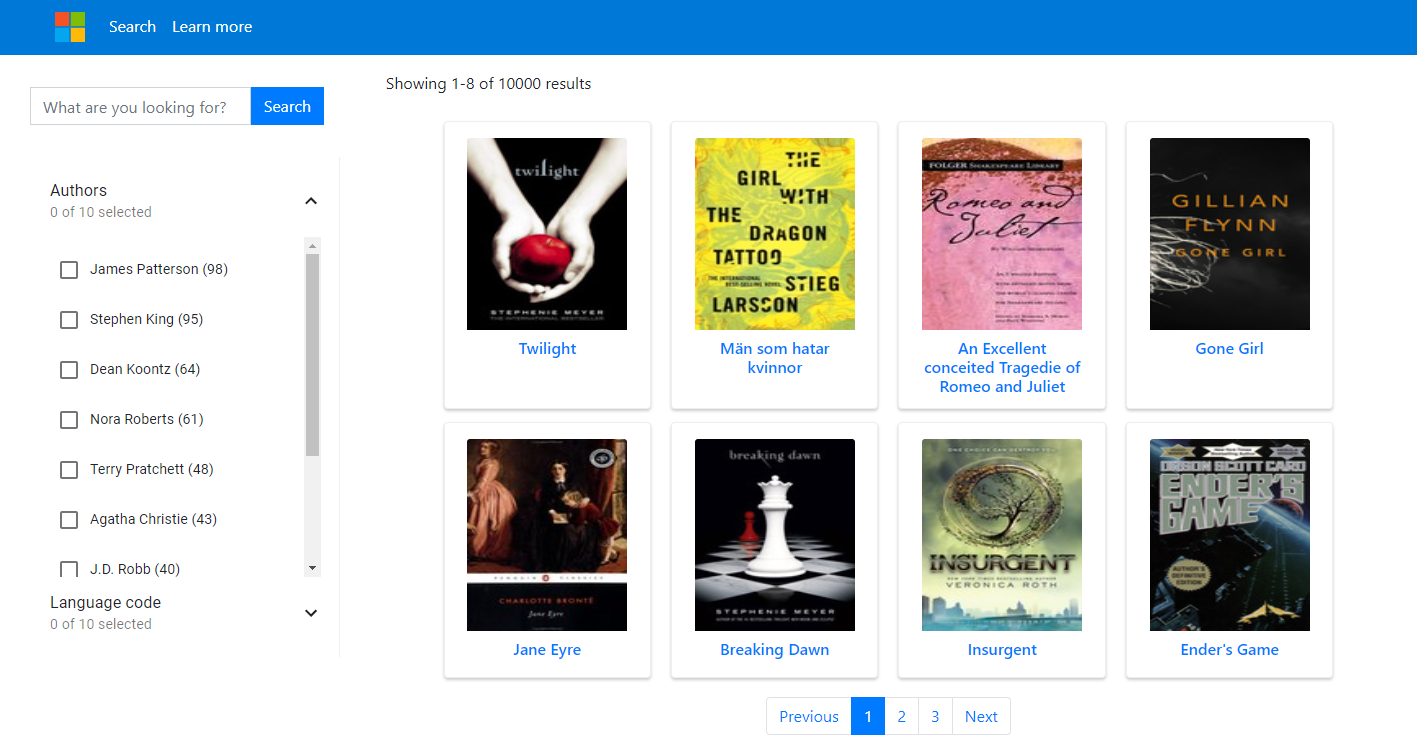
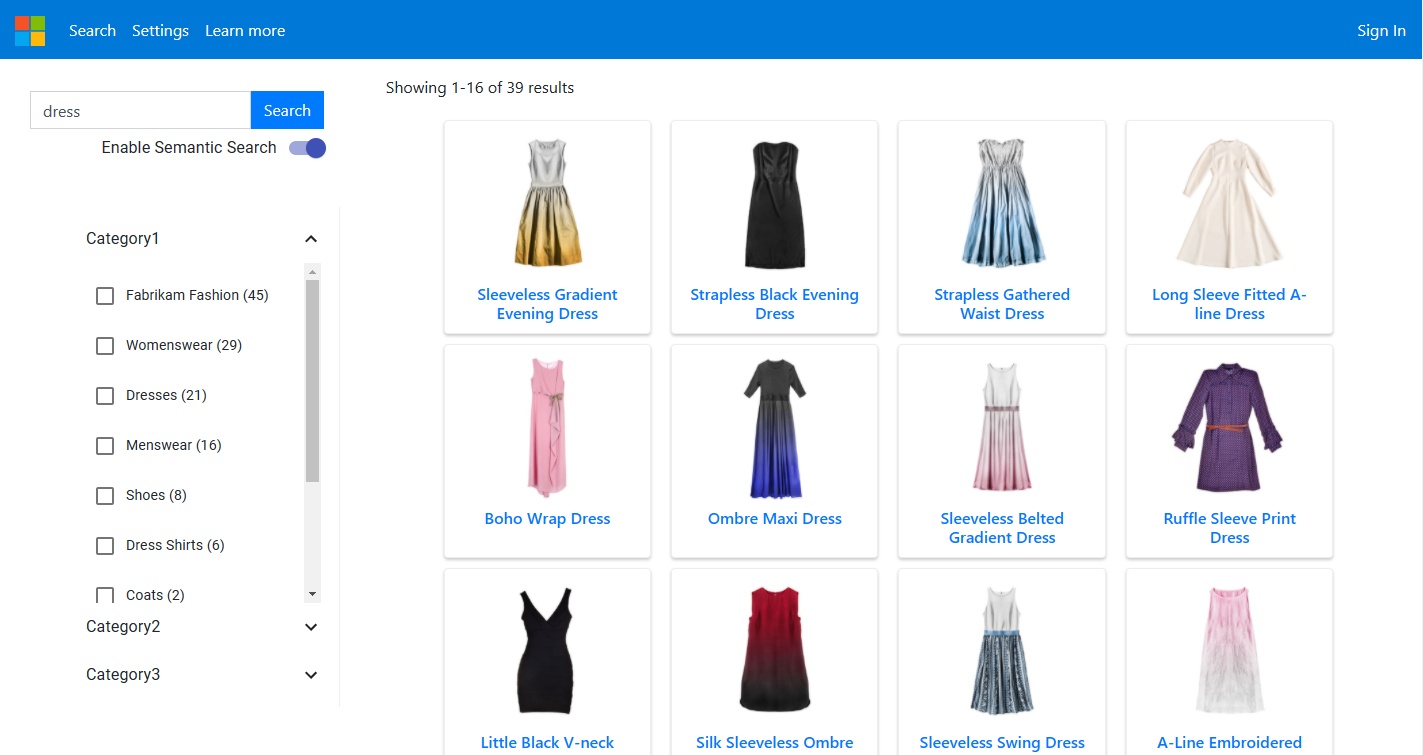
updating docs

diff --git a/docs/Customizing.md b/docs/Customizing.md
@@ -4,7 +4,7 @@ After deploying this sample, I'd encourage you to try it out with your own searc
 
 Up until now, you've been working with an existing index, but creating and loading an index with your own data is straightforward. You can create an index in the [Azure portal](https://docs.microsoft.com/azure/search/search-import-data-portal), use the [REST APIs](https://docs.microsoft.com/rest/api/searchservice/create-index), or use any of the Azure SDKs such as the new [Azure SDK for Javascript/TypeScript](https://github.com/Azure/azure-sdk-for-js/tree/master/sdk/search/search-documents/) that we used in this sample. Please see the Azure Cognitive Search [documentation](https://docs.microsoft.com/azure/search/search-get-started-portal) for more information on how to get started.
 
-There are two main changes you'd need to make to use your own index:
+There are three main changes you'd need to make to use your own index:
 
 ## 1. Edit application settings in the portal
 
@@ -23,17 +23,17 @@ To edit the results view, first navigate to `src/components/Results/Result/Resul
 The JSX for the basic result looks like this:
 
 ```javascript
-<div className="card result">
-    <a href={`/details/${props.document.id}`}>
-        <img className="card-img-top" src={props.document.image_url} alt="book cover"></img>
-        <div className="card-body">
-            <h6 className="title-style">{props.document.original_title}</h6>
-        </div>
-    </a>
-</div>
+  <div className="card custom-result card-product-grid">
+      <Link to={`/details/${props.document.productID}`}>
+          <img className="card-img-top" src={image_url} alt={props.document.productName}></img>
+          <div className="card-body text-center justify-content-center">
+              <h6>{props.document.productName}</h6>
+          </div>
+      </Link>
+  </div>
 ```
 
-The property `props.document` will contain all of the fields returned by your query. The properties `id`, `image_url`, and `original_title` all correspond to fields in the good-books index and should be updated to reflect the fields in your own search index.
+The property `props.document` will contain all of the fields returned by your query. The properties `productID`, `image_url`, and `productName` all correspond to fields in the fabrikam fashion index and should be updated to reflect the fields in your own search index.
 
 Beyond that, you can customize this component as much as you want depending on the needs of your application.
 
@@ -46,19 +46,15 @@ The component is currently designed as a card with multiple tabs to make it easy
 To edit the main view, simply edit the JSX used to define the body variable. All fields within your search index will be a part of the `document` variable. These should be edited to match the properties in your index.
 
 ```javascript
-  var body;
-  if (isLoading) {
-    body = (<CircularProgress />);
-  } else {
-    body = (<div class="card-body">
-      <h5 class="card-title">{document.original_title}</h5>
-      <img style={imageStyle} src={document.image_url} alt="Book cover"></img>
-      <p class="card-text">{document.authors?.join('; ')} - {document.original_publication_year}</p>
-      <p class="card-text">ISBN {document.isbn}</p>
-      <Rating name="half-rating-read" value={parseInt(document.average_rating)} precision={0.1} readOnly></Rating>
-      <p class="card-text">{document.ratings_count} Ratings</p>
-    </div>)
-  }
+  detailsBody = (
+    <div className="card-body">
+      <h5 className="card-title">{document.productName}</h5>
+      <a href={document.productURL}>
+        <img className="image" src={document.img_url} alt="product"></img>
+      </a>
+      <p className="card-text">{document.description}</p>
+    </div>
+  );
 ```
 
 The raw data tab simply prints out the entire `document` variable and doesn't need to be edited unless you'd like to change it.
@@ -69,4 +65,25 @@ You can also add additional tabs to show more content to your users.
 <li class="nav-item">
     <button class="nav-link active" onClick={() => setTab(2)}>New Tab</button>
 </li>
+```
+
+## 3. Update Search function
+
+[Semantic search](https://docs.microsoft.com/azure/search/semantic-search-overview) works best when specifying the searchFields in the request body so you'll also want to update the searchOptions in `api/search/search.js`.
+
+Follow [this guidance](https://docs.microsoft.com/azure/search/semantic-how-to-query-request#step-2-set-searchfields) when selecting `searchFields`.
+
+```javascript
+searchOptions = {
+    top: top,
+    skip: skip,
+    includeTotalCount: true,
+    facets: Object.keys(facets),
+    filter: createFilterExpression(filters, facets),
+    queryType: "semantic",
+    speller: "lexicon",
+    queryLanguage: searchQueryLanguage || "en-us",
+    answers: "extractive|count-3",
+    searchFields: ["productName", "description"]
+};
 ```

diff --git a/README.md b/README.md
@@ -1,8 +1,10 @@
 # Azure Cognitive Search UI
 
-This sample is a React template for [Azure Cognitive Search](https://docs.microsoft.com/en-us/azure/search/search-what-is-azure-search). It leverages the [Azure SDK for Javascript/Typescript](https://github.com/Azure/azure-sdk-for-js/tree/master/sdk/search/search-documents/) and [Azure Static Web Apps](https://aka.ms/swadocs) to make it easy to get up and running with a simple web application.
+This sample is a React template for [Azure Cognitive Search](https://docs.microsoft.com/azure/search/search-what-is-azure-search). It leverages the [Azure SDK for Javascript/Typescript](https://github.com/Azure/azure-sdk-for-js/tree/master/sdk/search/search-documents/) and [Azure Static Web Apps](https://aka.ms/swadocs) to make it easy to get up and running with a simple web application.
 
-You can view the resulting web application here: [https://victorious-beach-0ab88b51e.azurestaticapps.net/](https://victorious-beach-0ab88b51e.azurestaticapps.net/)
+This version of the template is focussed on using [semantic search](https://docs.microsoft.com/azure/search/semantic-search-overview) for retail. This repo was derrived from [https://github.com/dereklegenzoff/azure-search-react-template](https://github.com/dereklegenzoff/azure-search-react-template).
+
+You can view the resulting web application here: [https://brave-smoke-0c74cdf1e.azurestaticapps.net/](https://brave-smoke-0c74cdf1e.azurestaticapps.net/)
 
 ![Screenshot of sample web app](./images/web-app.png)
 
@@ -27,8 +29,6 @@ To run the sample locally, follow the steps below.
 1. Rename the `api/local.settings.json.rename` file to `api/local.settings.json`.
 
 The `local.settings.json` file holds all of the keys that the application needs.
-
-For this sample, there is a search index using the [goodbooks-10k dataset](https://github.com/zygmuntz/goodbooks-10k) that that is publicly available using the connection information below. The index consists of 10,000 popular books that we'll search over in our application.
 
 ```json
 {
@@ -78,9 +78,7 @@ This project can be run anywhere, but VS Code is required for local debugging.
 
 ### Forking the repo
 
-To start off, select **Use this template** above. This will create your own copy of the code that you can deploy and edit as you please.
-
-![Use this template screenshot](./images/use-template.png)
+To start off, fork this repo.
 
 ### Creating the web app
 
